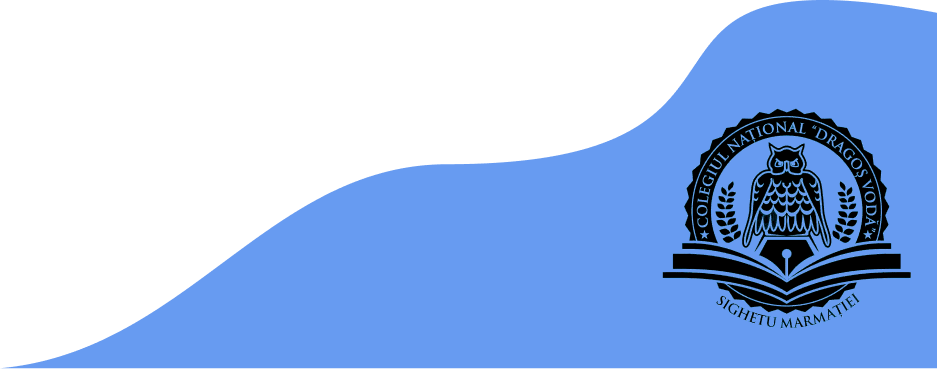
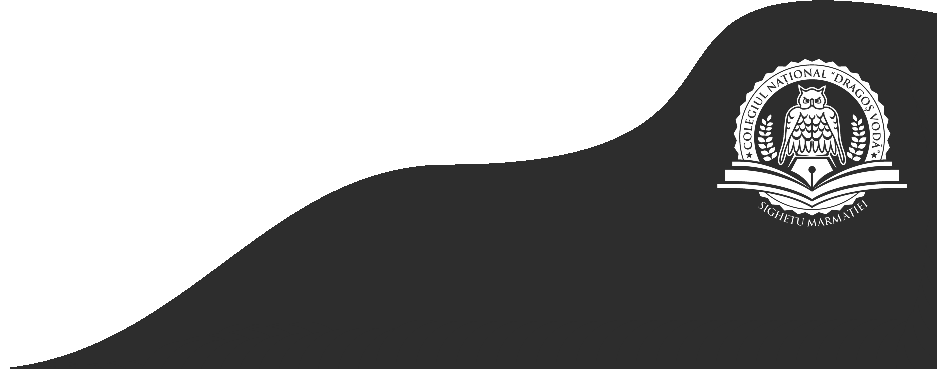
updateRibbons

diff --git a/css/style.css b/css/style.css
@@ -1,13 +1,13 @@
 :root {
-  --main-color: #679bf1;
-  --secondary-color: #ffc60a;
+  --main-color: #2D2D2D;
+  --secondary-color: #ffc309;
   --accent-color: #2D2D2D;
   --light-color: whitesmoke;
 }
 
 [data-theme="dark"] {
-  --main-color: #679bf1;
-  --secondary-color: #ffc60a;
+  --main-color: #2D2D2D;
+  --secondary-color: #ffc309;
   --accent-color: #2D2D2D;
   --light-color: whitesmoke;
 }
@@ -674,7 +674,7 @@ a.callToAction {
 .dropdown-content {
   display: none;
   position: fixed;
-  background-color: #ffc60a;
+  background-color: #ffc309;
   opacity: 70%;
   min-width: 160px;
   box-shadow: 0px 8px 16px 0px rgba(0, 0, 0, 0.2);
@@ -781,7 +781,7 @@ a.callToAction {
   text-align: center;
   margin-top: 1rem;
   padding: 0.5em;
-  background-color: #ffc60a;
+  background-color: #ffc309;
   margin-left: auto;
   margin-right: auto;
   border-radius: 2rem;
